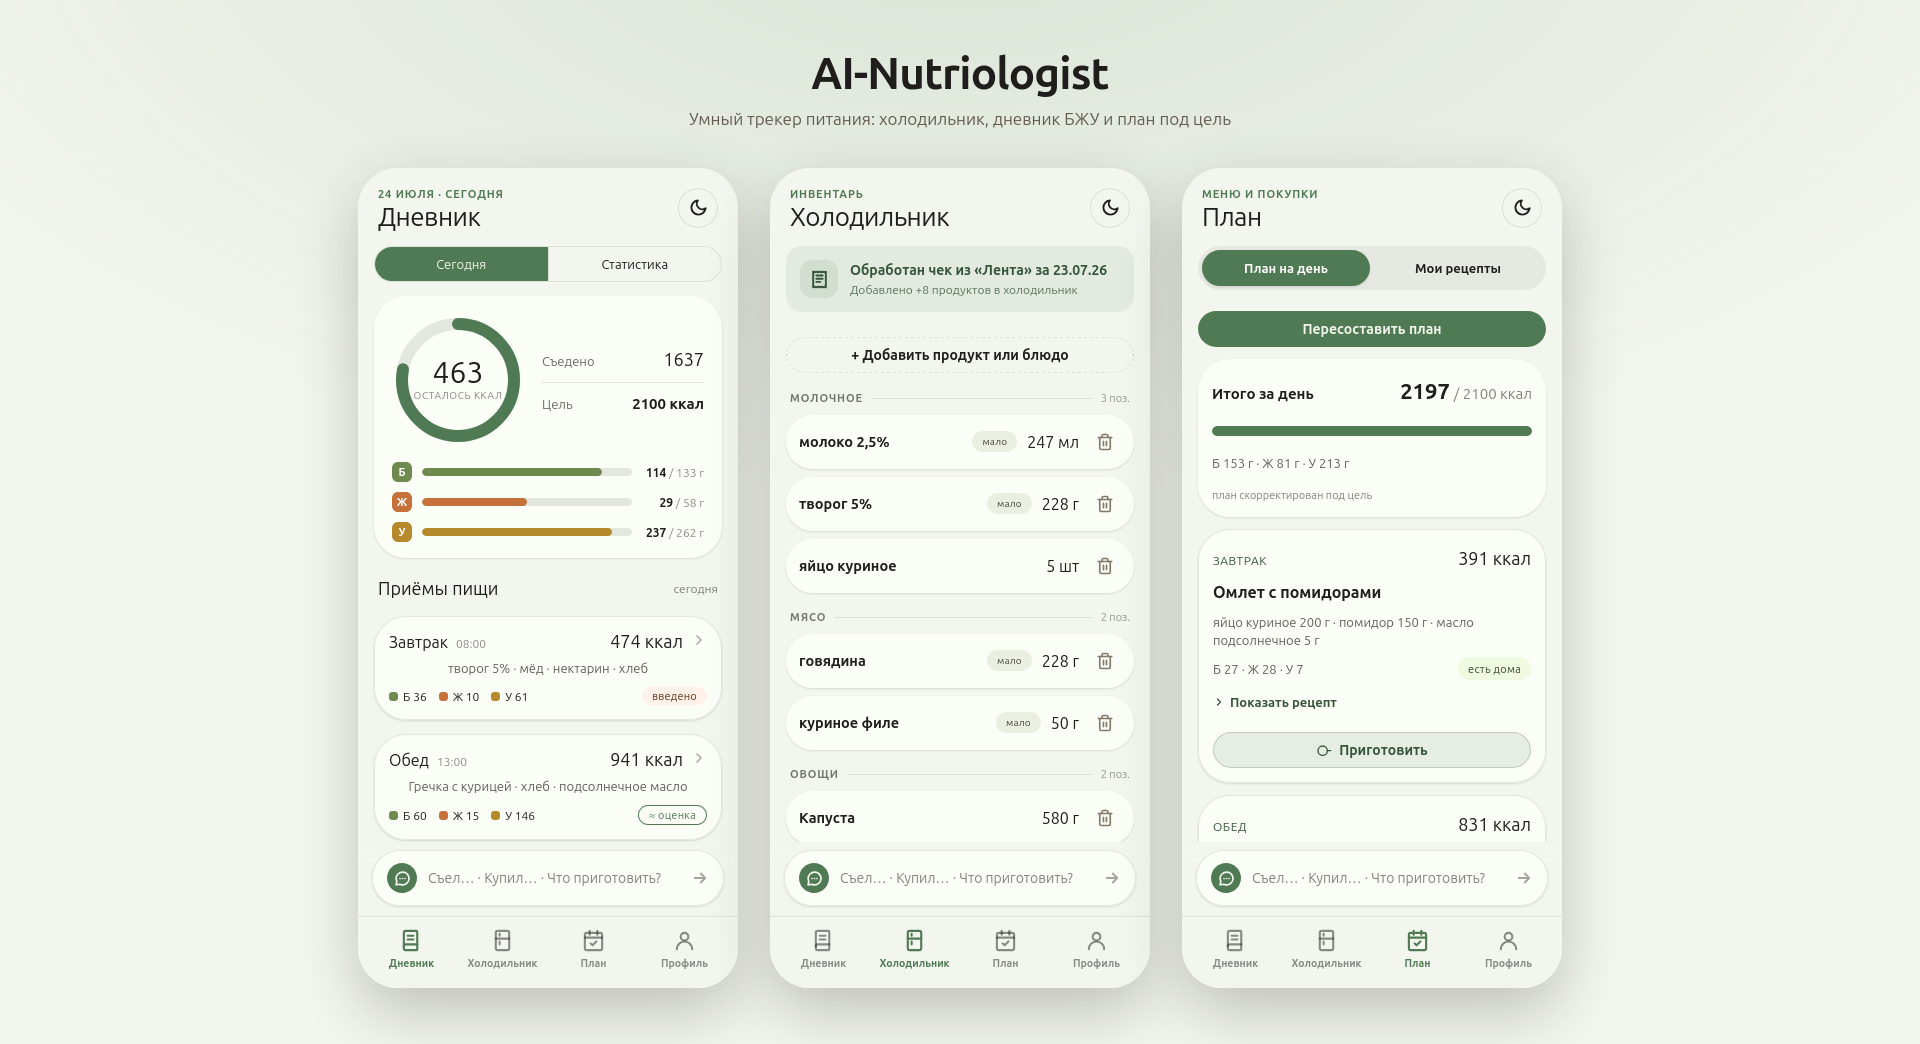
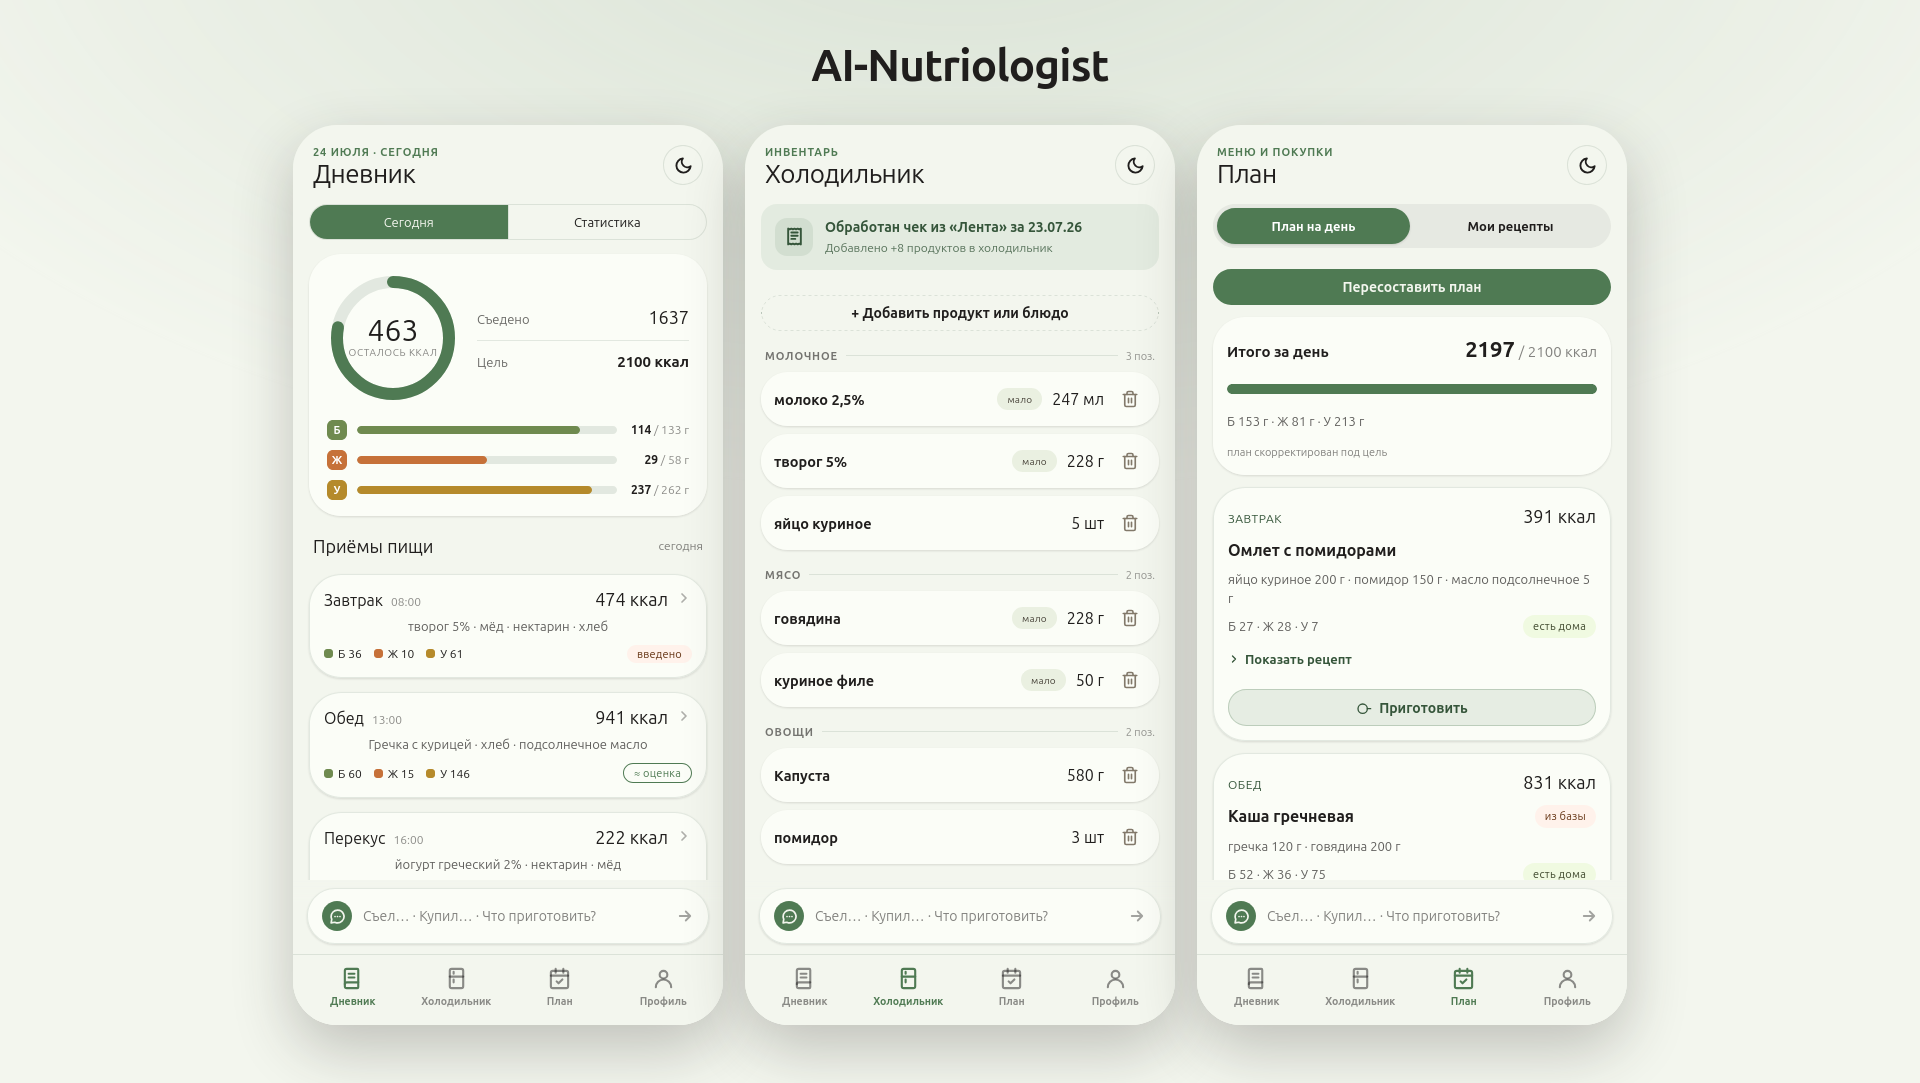
Upd screenschot

diff --git a/web/app/src/app.css b/web/app/src/app.css
@@ -71,7 +71,7 @@ input[type="number"]::-webkit-inner-spin-button { -webkit-appearance: none; marg
 /* --- Showcase (marketing composition, #showcase) --- */
 .showcase {
   min-height: 100dvh;
-  padding: 48px 40px 56px;
+  padding: 40px 20px 44px;
   background:
     radial-gradient(1200px 600px at 50% -10%, color-mix(in srgb, var(--color-accent) 16%, var(--color-bg)), transparent),
     var(--color-bg);
@@ -96,7 +96,7 @@ input[type="number"]::-webkit-inner-spin-button { -webkit-appearance: none; marg
 }
 .showcase-row {
   display: flex;
-  gap: 32px;
+  gap: 22px;
   flex-wrap: wrap;
   justify-content: center;
 }
@@ -104,9 +104,9 @@ input[type="number"]::-webkit-inner-spin-button { -webkit-appearance: none; marg
    the interesting part), with a stronger shadow to read as a device. The
    double-class selector outweighs the plain `.app-frame` sizing above. */
 .app-frame.showcase-phone {
-  width: 380px;
-  height: 820px;
-  border-radius: 40px;
+  width: 430px;
+  height: 900px;
+  border-radius: 44px;
   box-shadow: 0 24px 60px color-mix(in srgb, #2e2b25 26%, transparent);
 }
 .showcase-phone .app-scroll { overflow: hidden; }

diff --git a/web/app/src/Showcase.jsx b/web/app/src/Showcase.jsx
@@ -74,9 +74,6 @@ export default function Showcase() {
     <div className="showcase" data-theme="light" data-palette="forest">
       <header className="showcase-head">
         <h1 className="showcase-title">AI-Nutriologist</h1>
-        <p className="showcase-sub">
-          Умный трекер питания: холодильник, дневник БЖУ и план под цель
-        </p>
       </header>
       <div className="showcase-row">
         <Phone screenId="diary" />
